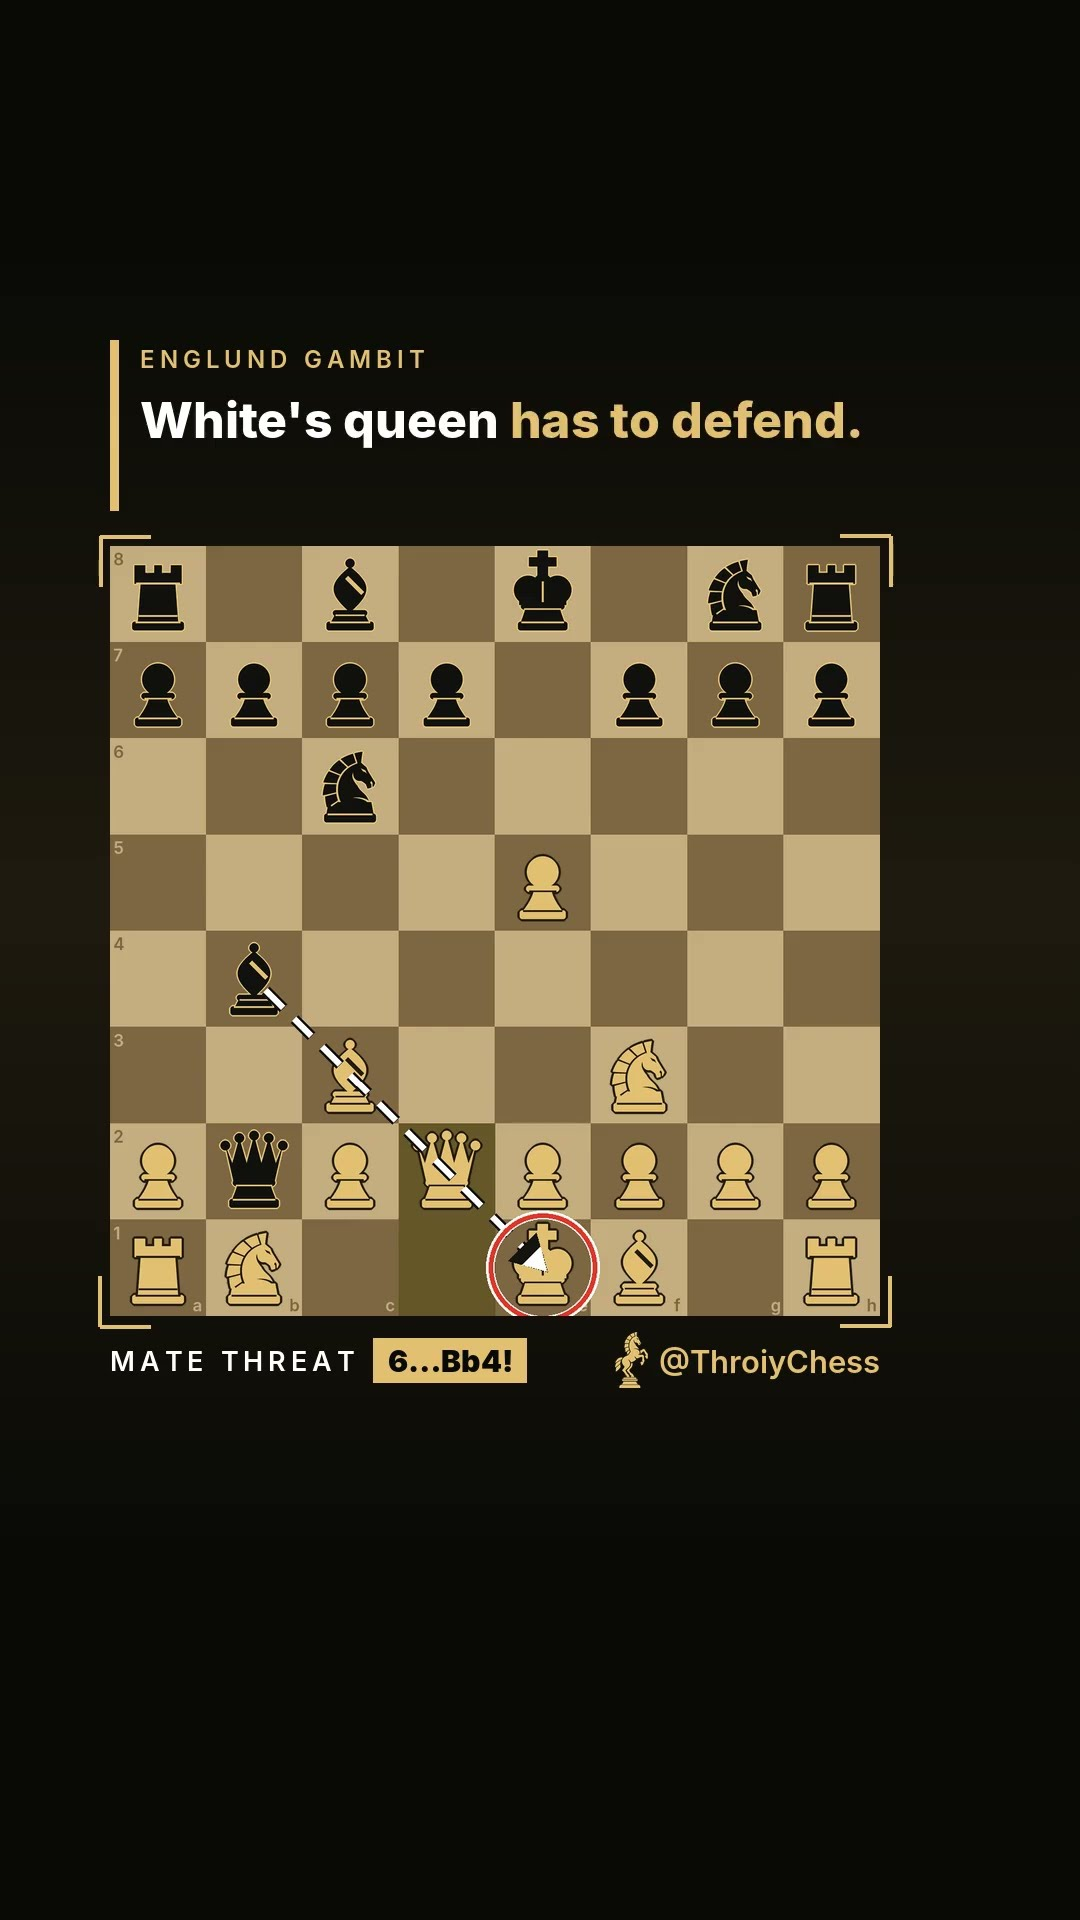
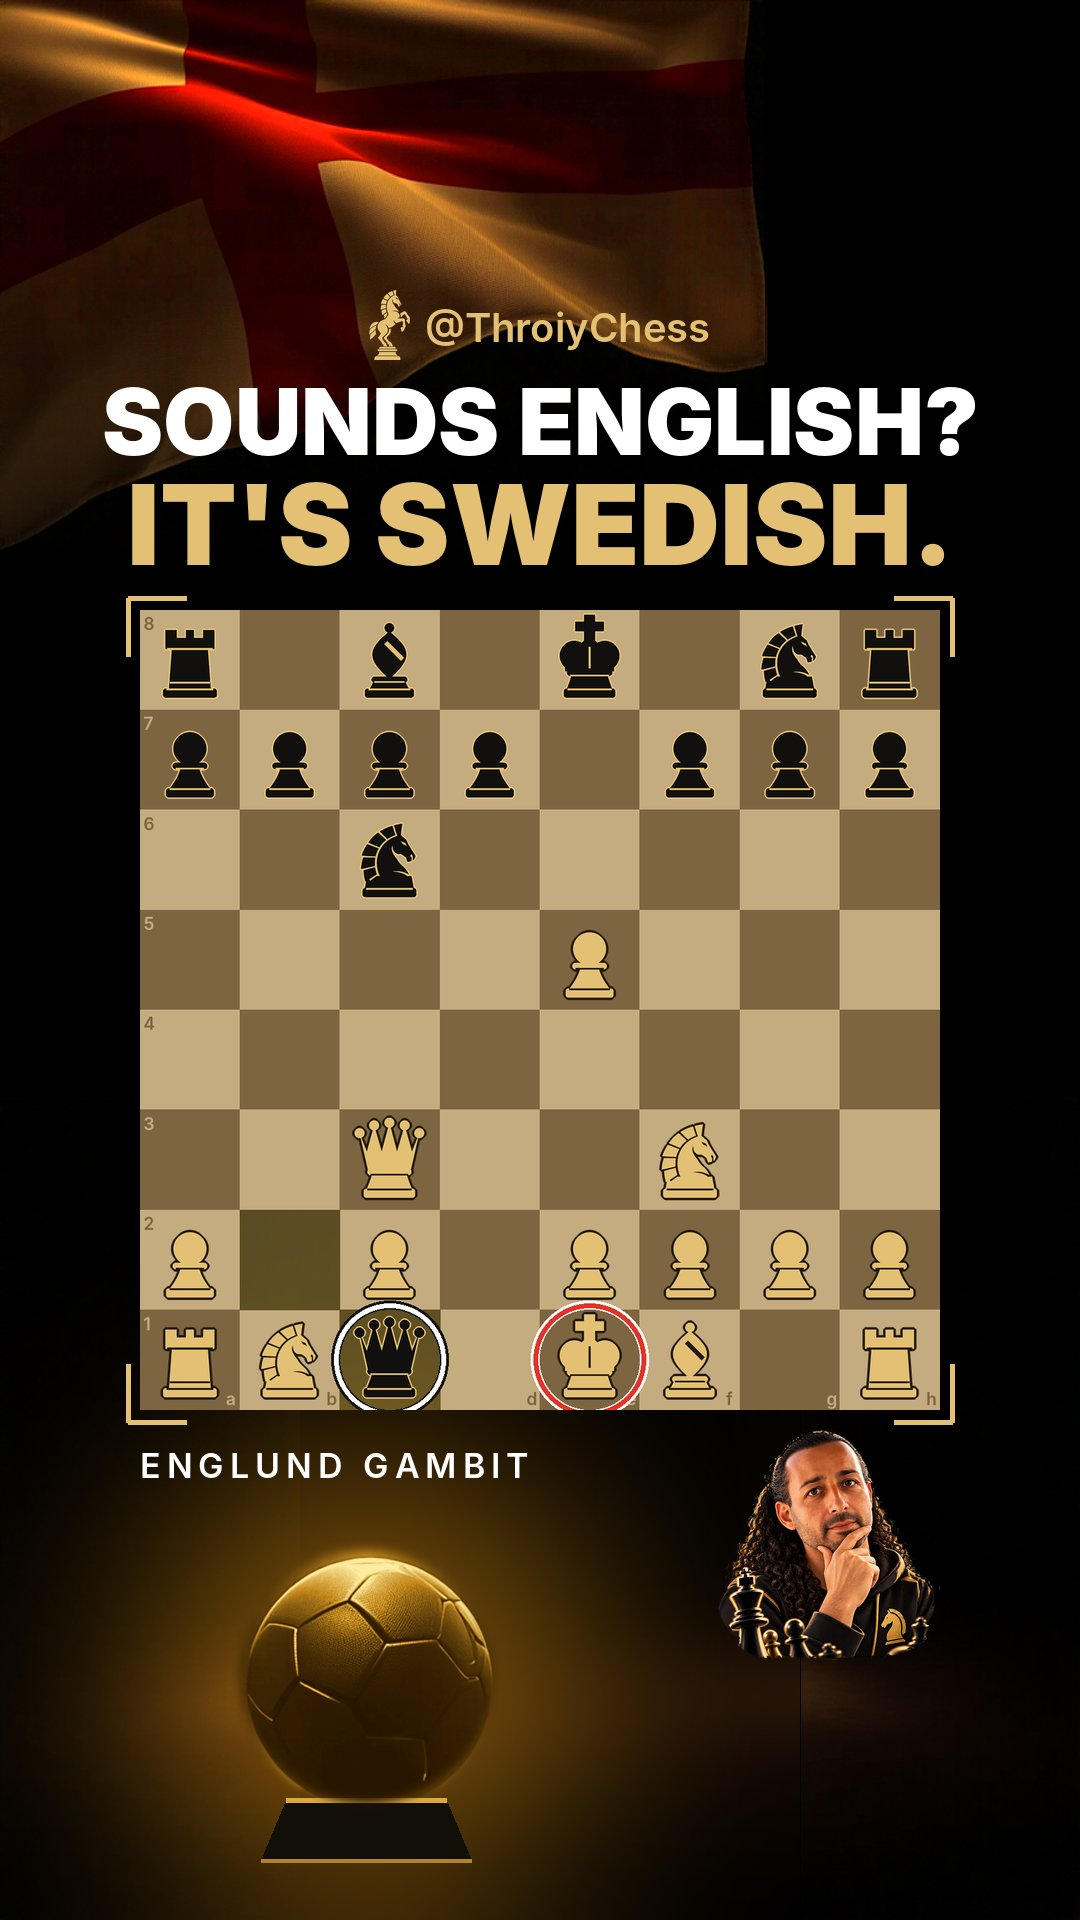
Top games: list top-game Shorts; Englund own thumbnail; refresh auto thumbnails from YouTube (custom thumb, 9:16 crop)
Claude-Session: https://claude.ai/code/session_01EGd6rjSvUQAyNZBj8o6YXL

diff --git a/_builder/build.py b/_builder/build.py
@@ -296,18 +296,40 @@ m.textContent="You're in! The next trap lands in your inbox.";}else{m.textConten
 </script>"""
 THUMBS = os.path.join(ROOT, "src", "img", "yt")
 def fetch_thumbs(items):
-    """Self-hosted thumbnails (no request to YouTube until play). Own designs are committed in src/img/yt/<id>.jpg;
-    missing ones are downloaded once from YouTube at build time (GitHub Actions) and committed with the site."""
-    import urllib.request
+    """Self-hosted thumbnails (no request to YouTube until play).
+    Own designs: commit src/img/yt/<id>.jpg (no .auto marker) -> never touched.
+    Missing ones are downloaded from YouTube at build time and marked <id>.auto; auto ones from the last 21 days
+    are refreshed every run, so a thumbnail changed on YouTube shows up on the site too.
+    Shorts: YouTube's custom thumbnail is maxresdefault (landscape, letterboxed) -> the 9:16 middle is cut out."""
+    import urllib.request, io, datetime
     os.makedirs(THUMBS, exist_ok=True)
+    today = datetime.date.today()
+    def get(name, vid):
+        try:
+            d = urllib.request.urlopen(f"https://i.ytimg.com/vi/{vid}/{name}", timeout=15).read()
+            return d if len(d) > 2000 else None
+        except Exception: return None
     for s in items:
-        p = os.path.join(THUMBS, s["id"] + ".jpg")
-        if os.path.exists(p): continue
-        for name in (["hqdefault.jpg"] if s.get("kind") == "video" else ["oar2.jpg", "oardefault.jpg", "hqdefault.jpg"]):
-            try:
-                data = urllib.request.urlopen(f"https://i.ytimg.com/vi/{s['id']}/{name}", timeout=15).read()
-                if len(data) > 2000: open(p, "wb").write(data); break
-            except Exception: pass
+        p = os.path.join(THUMBS, s["id"] + ".jpg"); auto = p[:-4] + ".auto"
+        if os.path.exists(p) and not os.path.exists(auto): continue          # own design
+        if os.path.exists(p):
+            try: age = (today - datetime.date.fromisoformat(s.get("date") or "2000-01-01")).days
+            except ValueError: age = 999
+            if age > 21: continue
+        data = None
+        if s.get("kind") == "video":
+            data = get("maxresdefault.jpg", s["id"]) or get("hqdefault.jpg", s["id"])
+        else:
+            mx = get("maxresdefault.jpg", s["id"])
+            if mx:
+                try:
+                    from PIL import Image
+                    im = Image.open(io.BytesIO(mx)).convert("RGB"); w, h = im.size; cw = int(h * 9 / 16)
+                    im = im.crop(((w - cw) // 2, 0, (w - cw) // 2 + cw, h)); b = io.BytesIO(); im.save(b, "JPEG", quality=88); data = b.getvalue()
+                except Exception: data = None
+            data = data or get("oar2.jpg", s["id"]) or get("hqdefault.jpg", s["id"])
+        if data:
+            open(p, "wb").write(data); open(auto, "w").write("auto-fetched from YouTube; delete this file to keep the image as an own design\n")
 
 def thumb_style(s):
     if not os.path.exists(os.path.join(THUMBS, s["id"] + ".jpg")): return ""
@@ -373,6 +395,9 @@ def home():
         cards += (f'<a class="card soon" href="{href}" target="_blank" rel="noopener"><div class="meta"><span class="label">{e(o)}</span></div>'
                   f'<h3>{e(n)}</h3><p>{e(h)}</p><span class="go">Watch the Short →</span></a>')
     latest = "".join(short_card(s) for s in SHORTS[:4])
+    _top = [s for s in SHORTS if s.get("topic") == "Top game"]
+    top_cards = (f'<div class="sechead" style="margin-top:28px"><div><span class="eyebrow">Top games</span><h2>The best moments from elite chess.</h2></div></div>'
+                 f'<div class="shorts">{"".join(short_card(s) for s in _top[:8])}</div>') if _top else ""
     body = header() + f'''<main>
 <div class="wrap hero"><div class="copy"><span class="eyebrow">Throiy Chess · Lessons &amp; Games</span>
 <h1>Stop falling for <em>chess traps.</em></h1>
@@ -386,7 +411,7 @@ def home():
 <a class="btn" href="/traps/">All {len(TRAPS)} traps →</a></div>
 <div class="grid">{cards}</div></div></section>
 <section id="top-games"><div class="wrap"><div class="breaking"><span class="live">Top games</span><div><h3>Clutch Chess: Champions Showdown · 27–29 October</h3>
-<p>Nakamura, Caruana, Praggnanandhaa and Sindarov play rapid chess. We break down the sharpest moment of each day in a Short.</p></div></div></div></section>
+<p>Nakamura, Caruana, Praggnanandhaa and Sindarov play rapid chess. We break down the sharpest moment of each day in a Short.</p></div></div>{top_cards}</div></section>
 <section id="about"><div class="wrap about"><img src="/img/avatar-thumbs_up.png" width="220" height="220" alt="Throiy, illustrated, giving a thumbs up">
 <div><span class="eyebrow">About</span><h2>Hi, I'm Throiy.</h2><p>I'm a chess player sharing what I wish I'd known sooner. Short, clear lessons you can use in your next game. A new one every day on YouTube, TikTok, Instagram and Facebook.</p>
 <div class="btns" style="margin-top:18px">''' + "".join(f'<a class="btn" href="{u}" target="_blank" rel="noopener">{n}</a>' for n, u in LINKS) + \
